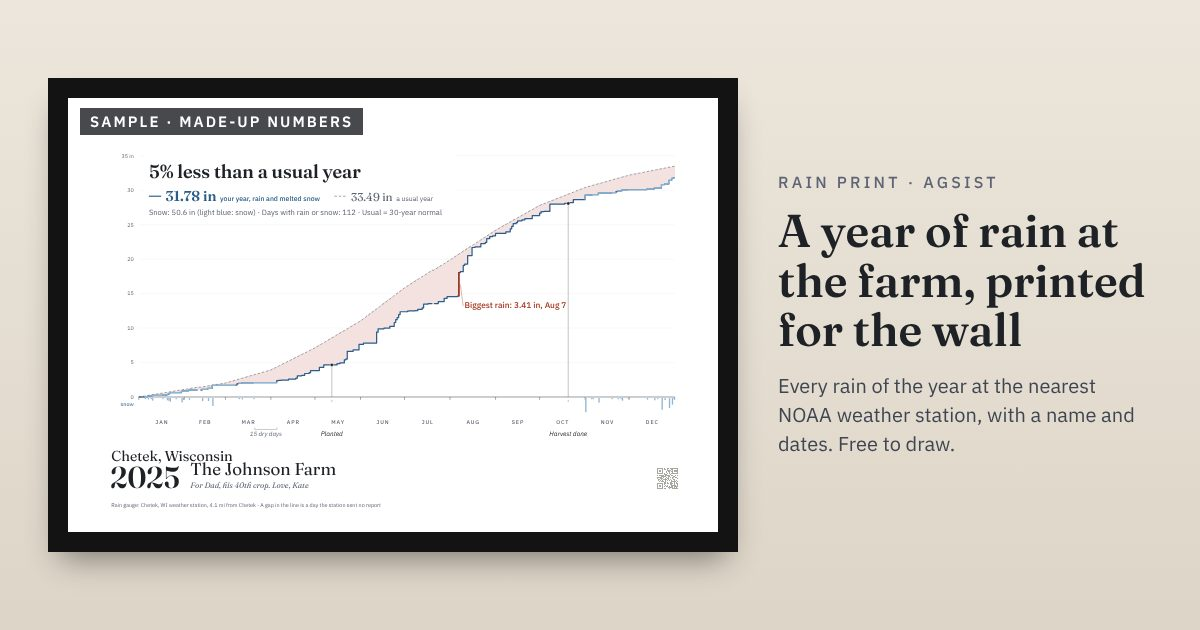
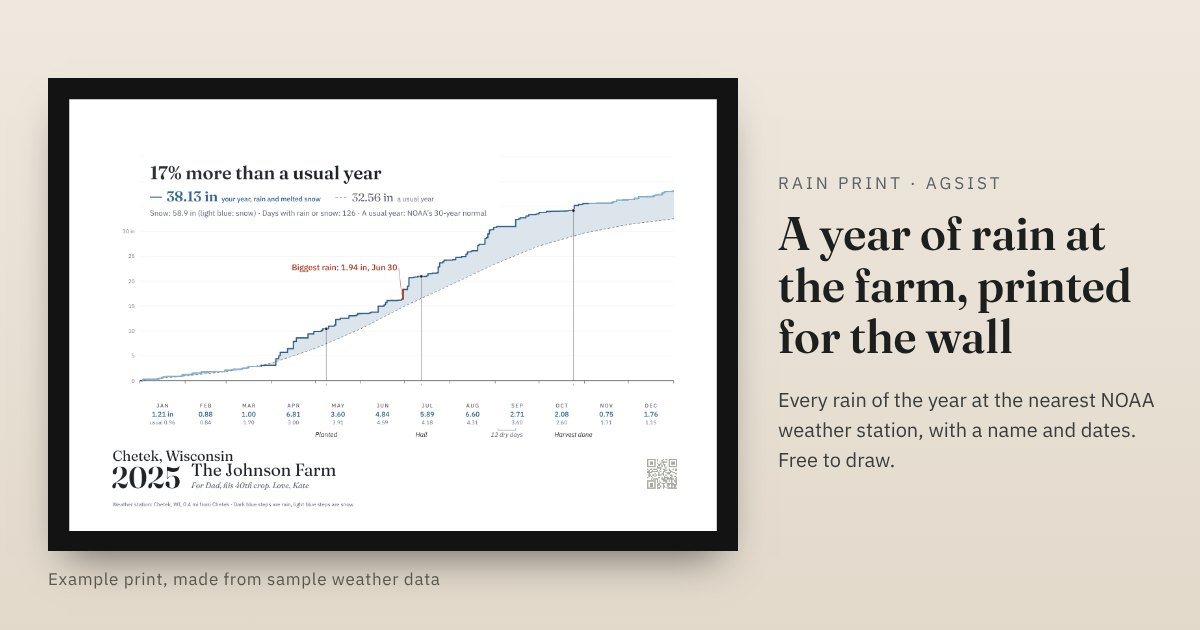
Rain Print: new share image and homepage thumb from the current engine (sample weather data, labeled Example), alt texts without made-up numbers; bump rain-print.js v22, rp-short.js v2, rain-print-promo.js v4, sw cache 68

diff --git a/sw.js b/sw.js
@@ -35,7 +35,7 @@
 // v8 (2026-07-26): cache bust for the big deploy week — chips, signup bar,
 // nowcast, contrast, iOS text fix, sponsor pricing. Returning phones were
 // pinned to old ?v= assets by cacheFirst; this clears every device's cache.
-var CACHE_VERSION = 67;  // v67 2026-10-14: rain gauge page rebuilt with the prototype design (charcoal renders in img/rain-gauge/, old concept images removed, waitlist top and bottom, no new scripts); v66 2026-10-14: Rain Print digital file needs no proof, ships within 3 business days, 8 x 10 gift card with a preview of the print so far (rain-print.js?v=21, rain-print-art.js?v=6, rp-gift.js?v=3 on rain-print and rp-gift); v65 2026-10-14: Rain Print polish: NOAA daily data (data.rcc-acis.org) never cached; forms give up on a silent worker after 12 s (form-post.js?v=3 on elevators, list-your-elevator, sponsor-report, farmland-atlas, prf-sponsor, rain-print); gift card wording (rp-gift.js?v=2 on rp-gift and rain-print); Rain Print page, engine and art fixes (every Rain Print script's ?v bumped once in rain-print.html); v64 2026-10-14: county rain polish (rain-county.css?v=3), prose keeps proportional figures (styles.css); v63 2026-10-13: Rain by county in the menu and footer (loader.js CV 43); v62 2026-10-13: county rain pages (rain-county.css), Rain Print finds the town from a county page link (rain-print.js?v=18); v61 2026-10-13: gifts for farmers page, homepage Christmas card links to it (rain-print-promo.js?v=3); v60 2026-10-13: Rain Print labels never collide (rain-print-art.js?v=3); v59 2026-10-13: Rain Print page steps, print beside the name and dates, up-close order row (rain-print.js?v=17); v58 2026-10-13: /prf-sponsor page and form (prf-sponsor.js?v=2, prf.css?v=5, prf-sponsor-page.js); v57 2026-10-13: PRF state sponsors (prf-sponsor.js, prf.js?v=5, prf.css?v=4), List your elevator (list-elevator.js); v56 2026-10-13: Rain Print own-area first print, example to trim, zoom (rain-print.js?v=16), bid alert box (cb-signup.js?v=2), elevator portal (post, elev-admin), portal elevator info on cash bids (cash-bids.js?v=2); v55 2026-10-13: Rain Print and rain gauge in the menu and footer, homepage card and related-page lines (loader.js CV 42, rain-print-promo.js?v=2), /rain-gauge; v54 2026-10-13: Rain Print business prices delivered, minimum 5, ships flat, reprint and refund terms (rain-print.js?v=14); v53 2026-10-13: Rain Print launch fixes and gift card redeem (rain-print.js?v=13, rain-print-art.js?v=2, rp-gift.js?v=1); v52 2026-10-13: Rain Print R1 Staircase and R2 Roots (rain-print.js?v=12, rain-print-art.js, new Rain Print fonts); v51 2026-10-13: futures chart loads on scroll, cash-bids page script file, one fetch per data file (util.js?v=19); v50 2026-10-12: craft pass (price, basis and contract formats, agronomy tools, hail, shared styles, homepage script file, offline mode on every loader page); v49 2026-10-12: menu and footer icons complete; v48 2026-10-11: signup asks take an optional ZIP, rent and ARC/PLC notice asks (signup-ask.js?v=6, loader.js CV 39); v47 2026-10-11: menu says Harvest price, wheat deferred card rolls, polish pass; v46 2026-10-11: unsold sponsor slots show nothing (footer, ribbons, homepage, daily), Rain Print sample and promo; v45 2026-10-11: email bar off the briefing archive, sponsor pages and worksheets (signup-ask.js?v=5, loaded by loader.js?v=18, which this clears); v44 2026-10-10: the menu grouped by question, shorter phone drawer; v43 2026-10-10: one price formatter, shared futures script, store-or-sell; v42 2026-10-10: ARC or PLC math loads on open and works offline, one shared counter sheet; v41 2026-10-09: ARC or PLC short-answer county pages and counter sheets; v40 2026-10-09: ARC/PLC calculator works offline on saved pages; v39 2026-10-09: ARC or PLC in the menu, footer and homepage; v38 2026-10-09: ARC/PLC decision tiers; v37 2026-10-09: ARC/PLC calculator; v36 2026-10-09: plainer site copy; v35 2026-10-09: card tokens, spray states, page titles; v34 2026-10-09: one look, variable fonts (old font files removed); v33 2026-10-09: no-jump layout, loading states; v32 2026-10-09: menu and footer change; v31 2026-10-09: instant pages, offline copies of key data; v30 2026-10-09: search, My elevators, tap targets; v29 2026-10-09: em-dash cleanup, link fixes, homepage coverage counts file; v28 2026-10-08: phone audit 2 (contrast, 16px inputs, 40px taps, footer pill); v27 2026-10-08: styles.css phone fixes (16px inputs so iOS stops zooming, .sr-only, light-mode change chips); was: v26 (2026-08-15 nav-panel visibility fix)
+var CACHE_VERSION = 68;  // v68 2026-10-14: Rain Print order fixes: ?d=RPS- references open, example words explained under the Order button, checkout note under the tapped button, proof orders what it showed, label counters, new share image and thumb (rain-print.js?v=22, rp-short.js?v=2 on rain-print and rp-gift; rain-print-promo.js?v=4 on index and gifts-for-farmers); v67 2026-10-14: rain gauge page rebuilt with the prototype design (charcoal renders in img/rain-gauge/, old concept images removed, waitlist top and bottom, no new scripts); v66 2026-10-14: Rain Print digital file needs no proof, ships within 3 business days, 8 x 10 gift card with a preview of the print so far (rain-print.js?v=21, rain-print-art.js?v=6, rp-gift.js?v=3 on rain-print and rp-gift); v65 2026-10-14: Rain Print polish: NOAA daily data (data.rcc-acis.org) never cached; forms give up on a silent worker after 12 s (form-post.js?v=3 on elevators, list-your-elevator, sponsor-report, farmland-atlas, prf-sponsor, rain-print); gift card wording (rp-gift.js?v=2 on rp-gift and rain-print); Rain Print page, engine and art fixes (every Rain Print script's ?v bumped once in rain-print.html); v64 2026-10-14: county rain polish (rain-county.css?v=3), prose keeps proportional figures (styles.css); v63 2026-10-13: Rain by county in the menu and footer (loader.js CV 43); v62 2026-10-13: county rain pages (rain-county.css), Rain Print finds the town from a county page link (rain-print.js?v=18); v61 2026-10-13: gifts for farmers page, homepage Christmas card links to it (rain-print-promo.js?v=3); v60 2026-10-13: Rain Print labels never collide (rain-print-art.js?v=3); v59 2026-10-13: Rain Print page steps, print beside the name and dates, up-close order row (rain-print.js?v=17); v58 2026-10-13: /prf-sponsor page and form (prf-sponsor.js?v=2, prf.css?v=5, prf-sponsor-page.js); v57 2026-10-13: PRF state sponsors (prf-sponsor.js, prf.js?v=5, prf.css?v=4), List your elevator (list-elevator.js); v56 2026-10-13: Rain Print own-area first print, example to trim, zoom (rain-print.js?v=16), bid alert box (cb-signup.js?v=2), elevator portal (post, elev-admin), portal elevator info on cash bids (cash-bids.js?v=2); v55 2026-10-13: Rain Print and rain gauge in the menu and footer, homepage card and related-page lines (loader.js CV 42, rain-print-promo.js?v=2), /rain-gauge; v54 2026-10-13: Rain Print business prices delivered, minimum 5, ships flat, reprint and refund terms (rain-print.js?v=14); v53 2026-10-13: Rain Print launch fixes and gift card redeem (rain-print.js?v=13, rain-print-art.js?v=2, rp-gift.js?v=1); v52 2026-10-13: Rain Print R1 Staircase and R2 Roots (rain-print.js?v=12, rain-print-art.js, new Rain Print fonts); v51 2026-10-13: futures chart loads on scroll, cash-bids page script file, one fetch per data file (util.js?v=19); v50 2026-10-12: craft pass (price, basis and contract formats, agronomy tools, hail, shared styles, homepage script file, offline mode on every loader page); v49 2026-10-12: menu and footer icons complete; v48 2026-10-11: signup asks take an optional ZIP, rent and ARC/PLC notice asks (signup-ask.js?v=6, loader.js CV 39); v47 2026-10-11: menu says Harvest price, wheat deferred card rolls, polish pass; v46 2026-10-11: unsold sponsor slots show nothing (footer, ribbons, homepage, daily), Rain Print sample and promo; v45 2026-10-11: email bar off the briefing archive, sponsor pages and worksheets (signup-ask.js?v=5, loaded by loader.js?v=18, which this clears); v44 2026-10-10: the menu grouped by question, shorter phone drawer; v43 2026-10-10: one price formatter, shared futures script, store-or-sell; v42 2026-10-10: ARC or PLC math loads on open and works offline, one shared counter sheet; v41 2026-10-09: ARC or PLC short-answer county pages and counter sheets; v40 2026-10-09: ARC/PLC calculator works offline on saved pages; v39 2026-10-09: ARC or PLC in the menu, footer and homepage; v38 2026-10-09: ARC/PLC decision tiers; v37 2026-10-09: ARC/PLC calculator; v36 2026-10-09: plainer site copy; v35 2026-10-09: card tokens, spray states, page titles; v34 2026-10-09: one look, variable fonts (old font files removed); v33 2026-10-09: no-jump layout, loading states; v32 2026-10-09: menu and footer change; v31 2026-10-09: instant pages, offline copies of key data; v30 2026-10-09: search, My elevators, tap targets; v29 2026-10-09: em-dash cleanup, link fixes, homepage coverage counts file; v28 2026-10-08: phone audit 2 (contrast, 16px inputs, 40px taps, footer pill); v27 2026-10-08: styles.css phone fixes (16px inputs so iOS stops zooming, .sr-only, light-mode change chips); was: v26 (2026-08-15 nav-panel visibility fix)
 /* ───────────────────────────────────────────────────────────────── */
 
 var CACHE_NAME = 'agsist-v' + CACHE_VERSION;

diff --git a/components/rain-print-promo.js b/components/rain-print-promo.js
@@ -113,7 +113,6 @@
       'a.rp-card:focus-visible{outline:2px solid var(--brand);outline-offset:2px}' +
       '.rp-card-i{position:relative;flex:0 0 auto;width:132px}' +
       '.rp-card img{width:100%;height:auto;aspect-ratio:360/247;border-radius:3px;display:block}' +
-      '.rp-card-s{position:absolute;right:4px;bottom:4px;padding:1px 5px;border-radius:3px;font-size:.66rem;font-weight:700;letter-spacing:.04em;text-transform:uppercase;color:#fff;background:rgba(20,20,20,.72)}' +
       '.rp-card-b{min-width:0}' +
       '.rp-card-t{display:block;font-weight:700;font-size:.98rem;line-height:1.3;color:var(--text)}' +
       '.rp-card-x{display:block;margin-top:3px;font-size:.86rem;line-height:1.45;color:var(--text-dim)}' +
@@ -137,7 +136,7 @@
         if (!c) continue;
         css();
         el.innerHTML = '<a class="rp-card" href="' + esc(c.href) + '" data-placement="home-card-' + c.angle + '">' +
-          '<span class="rp-card-i"><img src="/img/rain-print-thumb.jpg" width="360" height="247" alt="A sample Rain Print, made-up numbers" loading="lazy" decoding="async"><span class="rp-card-s" aria-hidden="true">Sample</span></span>' +
+          '<span class="rp-card-i"><img src="/img/rain-print-thumb.jpg" width="360" height="247" alt="An example Rain Print: a year of rain stepping up across the months, with a farm name and year" loading="lazy" decoding="async"></span>' +
           '<span class="rp-card-b"><span class="rp-card-t">' + esc(c.title) + '</span><span class="rp-card-x">' + esc(c.text) + '</span>' +
           '<span class="rp-card-p">' + (c.price ? esc(c.price) + ' ' : '') + '<b>' + esc(c.cta) + ' &rarr;</b></span></span></a>';
         el.hidden = false;

diff --git a/rain-print.html b/rain-print.html
@@ -33,7 +33,7 @@
   <meta property="og:image"        content="https://agsist.com/img/og/rain-print.jpg">
   <meta property="og:image:width"  content="1200">
   <meta property="og:image:height" content="630">
-  <meta property="og:image:alt"    content="An example Rain Print in a black frame: one year of rain at Chetek, Wisconsin drawn as a rising line, with a farm name and three dates.">
+  <meta property="og:image:alt"    content="An example Rain Print in a black frame: a year of rain at Chetek, Wisconsin stepping up across the months, with a farm name and three dates, made from sample weather data.">
   <meta name="twitter:card"        content="summary_large_image">
   <meta name="twitter:site"        content="@agsist">
   <meta name="twitter:title"       content="Rain Print: any year of rain at the farm, printed for the wall">
@@ -707,9 +707,9 @@
   <script src="/components/util.js?v=19"></script>
   <script src="/components/qr.js?v=8"></script>
   <script src="/components/form-post.js?v=3"></script>
-  <script src="/components/rp-short.js?v=1"></script>
+  <script src="/components/rp-short.js?v=2"></script>
   <script src="/components/rain-print-art.js?v=6"></script>
-  <script src="/components/rain-print.js?v=21"></script>
+  <script src="/components/rain-print.js?v=22"></script>
   <script src="/components/rp-gift.js?v=3" defer></script>
 </body>
 </html>

diff --git a/rp-gift.html b/rp-gift.html
@@ -223,9 +223,9 @@ body{margin:0;color:var(--text);font:16px/1.55 'IBM Plex Sans',system-ui,sans-se
 <noscript><p style="max-width:880px;margin:1rem auto;padding:0 16px">This page needs JavaScript to draw the card. Questions: sig@farmers1st.com</p></noscript>
 <div id="stage"><div id="fit"></div></div>
 <script src="/components/qr.js"></script>
-<script src="/components/rp-short.js?v=1"></script>
+<script src="/components/rp-short.js?v=2"></script>
 <script src="/components/rain-print-art.js?v=6"></script>
-<script src="/components/rain-print.js?v=21"></script>
+<script src="/components/rain-print.js?v=22"></script>
 <script src="/components/rp-gift.js?v=3"></script>
 <script>
 (function () {

diff --git a/index.html b/index.html
@@ -1407,7 +1407,7 @@ try{var _t=localStorage.getItem('agsist-theme');if(_t!=='light'&&_t!=='dark')_t=
     </details>
     </nav>
     <!-- Rain Print card (components/rain-print-promo.js): shown while data/rain-print.json promote is on, with seasonal wording. Empty and hidden otherwise. -->
-    <aside data-rain-print-promo="card" aria-label="Rain Print" hidden></aside><script src="/components/rain-print-promo.js?v=3" defer></script>
+    <aside data-rain-print-promo="card" aria-label="Rain Print" hidden></aside><script src="/components/rain-print-promo.js?v=4" defer></script>
   </section>
   <script>
   /* Land band. Every number comes from a file in /data or the Atlas build,

diff --git a/gifts-for-farmers.html b/gifts-for-farmers.html
@@ -195,7 +195,7 @@
 <!-- /static-nav:footer -->
 </div>
   <script src="/components/loader.js?v=18" defer></script>
-  <script src="/components/rain-print-promo.js?v=3" defer></script>
+  <script src="/components/rain-print-promo.js?v=4" defer></script>
   <script>
   /* The Christmas order-by dates, prices and business list date come from
      data/rain-print.json, the same file /rain-print reads. Any failure leaves
